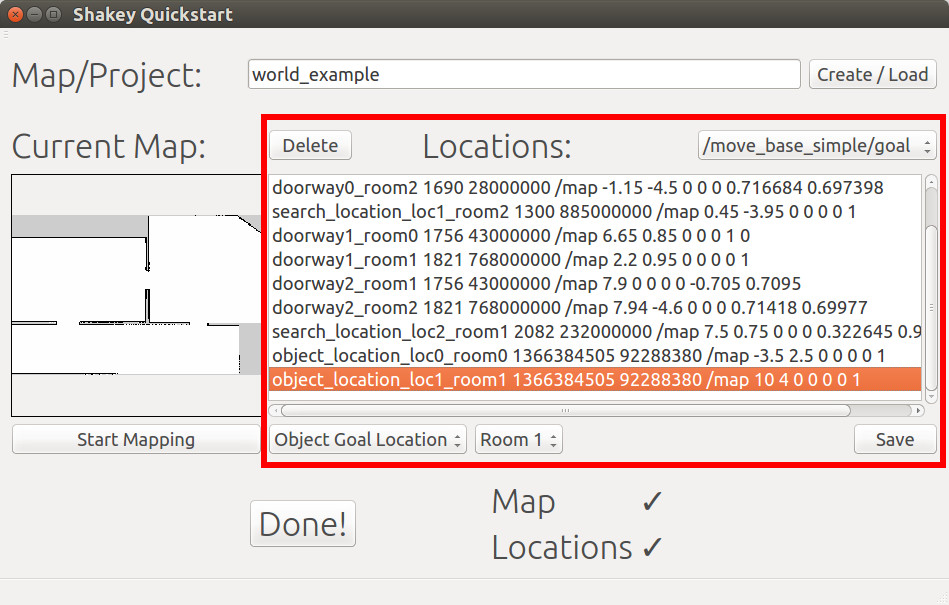
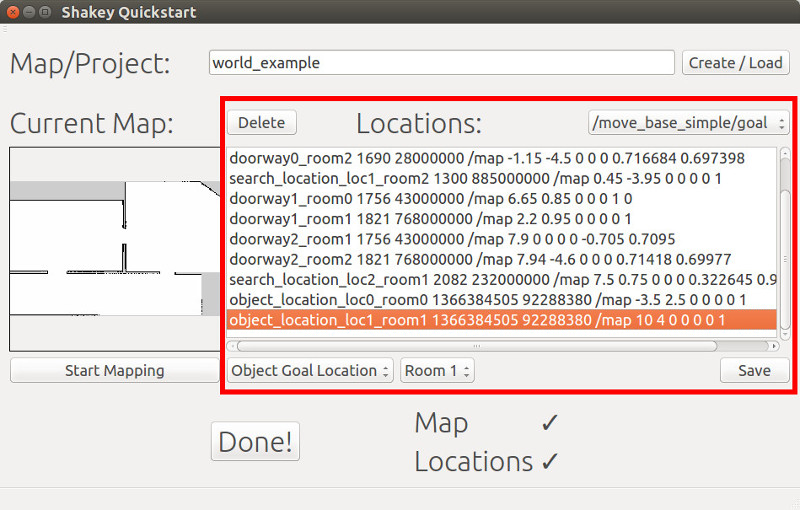
changed img sizes

diff --git a/Readme.md b/Readme.md
@@ -1,9 +1,7 @@
 # Shakey 2016
 Shakey the robot was one of the first autonomous robots that showed impressive capabilities of navigation and mobile manipulation. The provided code is a today's (2016) implementation of Shakey with modern robotics technology. It is possible to run the Shakey 2016 project on a PR2 or as a simulation. More information in IEEE Robotics and Automation Letters (Vol. 2):  [Shakey 2016 — How Much Does it Take to Redo Shakey the Robot?](http://ieeexplore.ieee.org/stamp/stamp.jsp?tp=&arnumber=7847341&isnumber=7797562)
 
-<p align="center">
-[![Shakey 2016 - Video](images/youtube_test.png?raw=true)](https://www.youtube.com/watch?v=wKOCdZT4GXM&feature=youtu.be)
-</p>
+[![Shakey 2016 - Video](images/youtube.png?raw=true)](https://www.youtube.com/watch?v=wKOCdZT4GXM&feature=youtu.be)
 
 ## 0. Installing Shakey 2016
 The Shakey 2016 system can be executed on a real robot, the PR2, or as a simulation. The Robot Operating System (ROS) is necessary to run this project. Our system is optimized (and recommended) for [ROS Hydro Medusa](http://wiki.ros.org/hydro/Installation/Ubuntu) and an Ubuntu 12.04 LTS (Precise) system. Once you have set up a [catkin workspace](http://wiki.ros.org/ROS/Tutorials/InstallingandConfiguringROSEnvironment) you can clone the Shakey 2016 Repository into your source folder (src) and build it as shown [here](http://wiki.ros.org/ROS/Tutorials/InstallingandConfiguringROSEnvironment). Now the Shakey 2016 project should be installed and ready for use.
